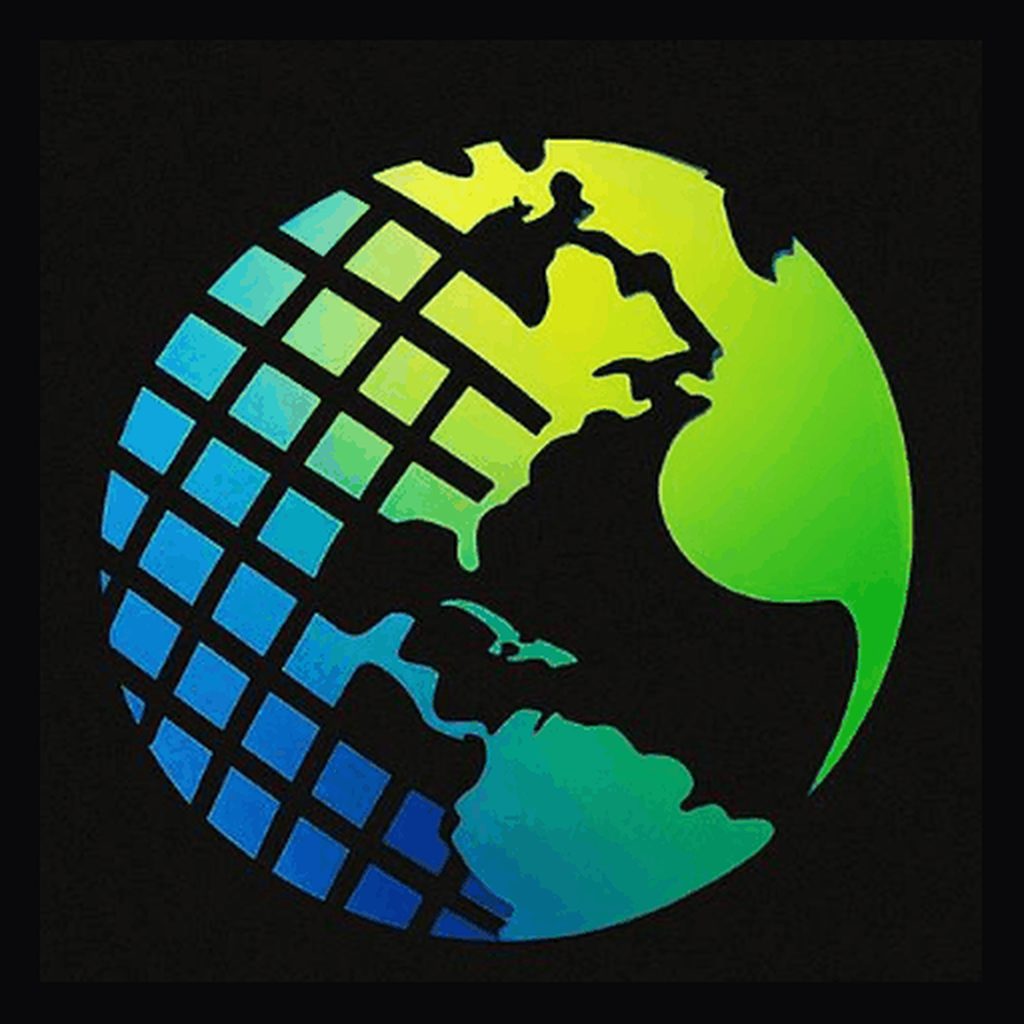
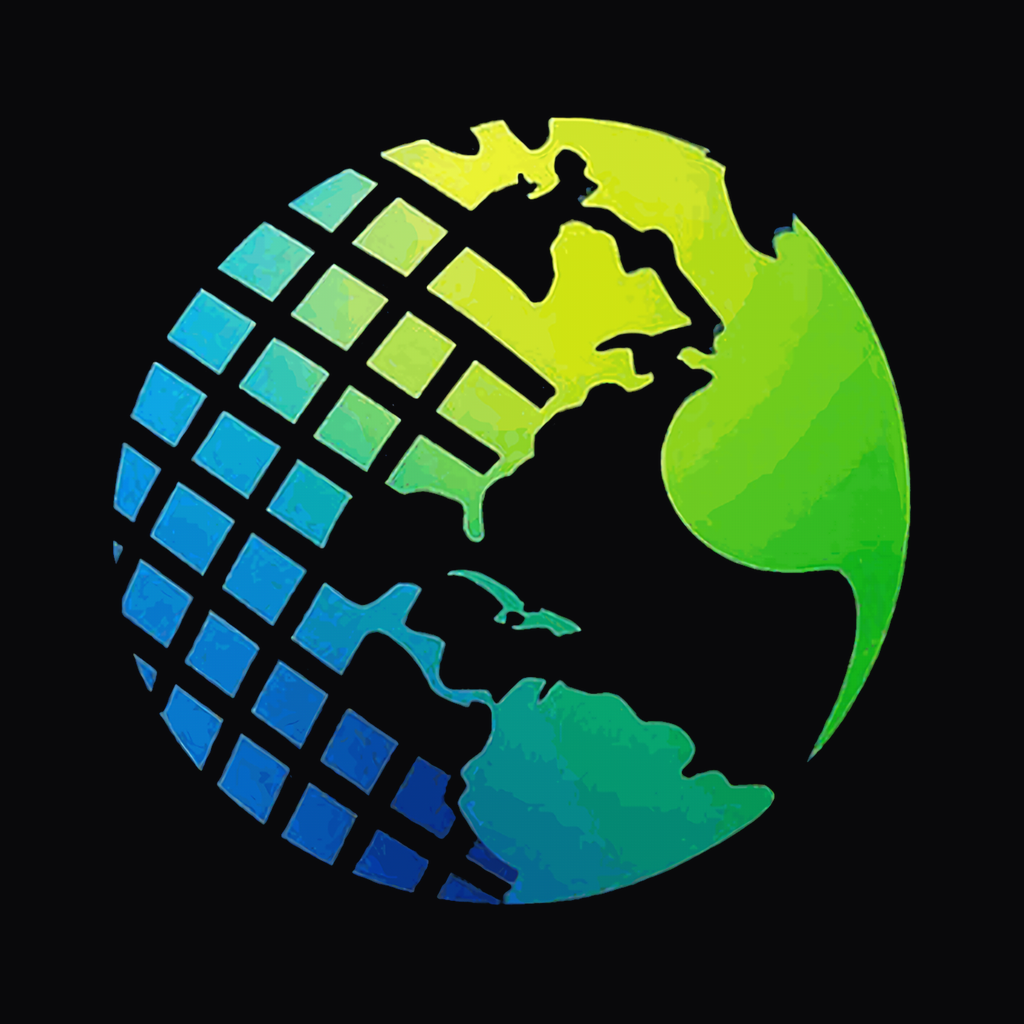
Приложение: автообновление с сайта (Capgo, свой хостинг), эффектное открытие с анимацией, чёткие иконки и логотип (увеличение нейросетью)
Claude-Session: https://claude.ai/code/session_01HueoxJaRpC6wrSjSJwY7Sb

Changed region(s): [[0.0938, 0.0938, 0.9062, 0.9375], [0.7188, 0.4062, 0.75, 0.4375]]

diff --git a/src/components/IntroSplash.tsx b/src/components/IntroSplash.tsx
@@ -1,0 +1,105 @@
+import React, { useEffect, useState } from 'react';
+import { createPortal } from 'react-dom';
+import { isNativeApp } from '../utils/platform';
+
+const TITLE = 'SlyNet Radio';
+
+function shouldShow(): boolean {
+  try {
+    const standalone = window.matchMedia?.('(display-mode: standalone)').matches || (navigator as any).standalone;
+    if (isNativeApp || standalone) {
+      // В приложении — при каждом «холодном» запуске
+      if (sessionStorage.getItem('slynet_intro_done')) return false;
+      sessionStorage.setItem('slynet_intro_done', '1');
+      return true;
+    }
+    // На сайте — только при самом первом посещении
+    if (localStorage.getItem('slynet_intro_seen')) return false;
+    localStorage.setItem('slynet_intro_seen', '1');
+    return true;
+  } catch {
+    return false;
+  }
+}
+
+/** Эффектное открытие: глобус влетает с вращением, расходятся радиоволны, появляется название */
+export const IntroSplash: React.FC = () => {
+  const [stage, setStage] = useState<'show' | 'leave' | 'gone'>(() => (shouldShow() ? 'show' : 'gone'));
+
+  useEffect(() => {
+    if (stage !== 'show') return;
+    const reduce = window.matchMedia?.('(prefers-reduced-motion: reduce)').matches;
+    const t1 = setTimeout(() => setStage('leave'), reduce ? 700 : 2500);
+    return () => clearTimeout(t1);
+  }, [stage]);
+
+  useEffect(() => {
+    if (stage !== 'leave') return;
+    const t = setTimeout(() => setStage('gone'), 550);
+    return () => clearTimeout(t);
+  }, [stage]);
+
+  if (stage === 'gone') return null;
+
+  // Через портал в body — чтобы поверх всего сайта, независимо от родительских блоков
+  return createPortal(
+    <div
+      onClick={() => setStage('leave')}
+      className={`slynet-intro fixed inset-0 z-[100] flex flex-col items-center justify-center overflow-hidden select-none ${stage === 'leave' ? 'is-leaving' : ''}`}
+      aria-hidden
+    >
+      <style>{`
+        .slynet-intro{background:radial-gradient(circle at 50% 45%,#06281f 0%,#05110f 38%,#09090b 75%);animation:si-bg 2.5s ease-out both}
+        .slynet-intro.is-leaving{animation:si-out .55s ease-in forwards}
+        @keyframes si-out{to{opacity:0;transform:scale(1.08);filter:blur(6px)}}
+        @keyframes si-bg{from{background-size:60% 60%}to{background-size:100% 100%}}
+        .si-stage{position:relative;width:min(56vw,260px);aspect-ratio:1}
+        .si-ring{position:absolute;inset:0;border-radius:9999px;border:2px solid rgba(52,211,153,.55);opacity:0;animation:si-wave 2.1s cubic-bezier(.2,.6,.3,1) infinite}
+        .si-ring:nth-child(2){animation-delay:.45s;border-color:rgba(34,211,238,.5)}
+        .si-ring:nth-child(3){animation-delay:.9s;border-color:rgba(163,230,53,.45)}
+        @keyframes si-wave{0%{transform:scale(.55);opacity:.9}100%{transform:scale(2.3);opacity:0}}
+        .si-glow{position:absolute;inset:-18%;border-radius:9999px;background:radial-gradient(circle,rgba(16,185,129,.55),rgba(6,182,212,.25) 45%,transparent 70%);filter:blur(18px);animation:si-pulse 1.6s ease-in-out infinite alternate}
+        @keyframes si-pulse{from{opacity:.55;transform:scale(.92)}to{opacity:1;transform:scale(1.06)}}
+        .si-globe{position:absolute;inset:0;width:100%;height:100%;object-fit:contain;filter:drop-shadow(0 0 22px rgba(16,185,129,.55));animation:si-in 1s cubic-bezier(.17,1.4,.4,1) both,si-spin 9s linear 1s infinite}
+        @keyframes si-in{from{opacity:0;transform:scale(.25) rotate(-220deg)}to{opacity:1;transform:scale(1) rotate(0)}}
+        @keyframes si-spin{to{transform:rotate(360deg)}}
+        .si-title{margin-top:min(9vw,44px);font-weight:800;font-size:clamp(30px,9vw,46px);letter-spacing:-.02em;color:#fff;display:flex}
+        .si-title span{display:inline-block;opacity:0;transform:translateY(18px);animation:si-letter .5s cubic-bezier(.2,.9,.3,1.3) forwards}
+        @keyframes si-letter{to{opacity:1;transform:none}}
+        .si-title .acc{background:linear-gradient(90deg,#22d3ee,#10b981,#a3e635);-webkit-background-clip:text;background-clip:text;color:transparent}
+        .si-sub{margin-top:8px;font-family:"JetBrains Mono",monospace;font-size:13px;letter-spacing:.18em;text-transform:uppercase;color:#6ee7b7;opacity:0;animation:si-fade .6s ease-out 1.35s forwards}
+        @keyframes si-fade{to{opacity:.9}}
+        .si-eq{display:flex;gap:5px;height:26px;align-items:flex-end;margin-top:22px;opacity:0;animation:si-fade .4s ease-out 1.5s forwards}
+        .si-eq i{width:5px;border-radius:3px;background:linear-gradient(#a3e635,#10b981);animation:si-bar .7s ease-in-out infinite alternate}
+        .si-eq i:nth-child(2){animation-delay:.15s}.si-eq i:nth-child(3){animation-delay:.3s}.si-eq i:nth-child(4){animation-delay:.1s}.si-eq i:nth-child(5){animation-delay:.25s}
+        @keyframes si-bar{from{height:5px}to{height:26px}}
+        @media (prefers-reduced-motion: reduce){.slynet-intro *{animation-duration:.01s!important;animation-iteration-count:1!important}}
+      `}</style>
+
+      <div className="si-stage">
+        <div className="si-glow" />
+        <span className="si-ring" />
+        <span className="si-ring" />
+        <span className="si-ring" />
+        <img src="./logo-globe.png" alt="" className="si-globe" />
+      </div>
+
+      <div className="si-title">
+        {TITLE.split('').map((ch, i) => (
+          <span key={i} className={i >= 7 ? 'acc' : ''} style={{ animationDelay: `${0.7 + i * 0.045}s` }}>
+            {ch === ' ' ? ' ' : ch}
+          </span>
+        ))}
+      </div>
+      <div className="si-sub">Радио со всего мира</div>
+      <div className="si-eq">
+        <i />
+        <i />
+        <i />
+        <i />
+        <i />
+      </div>
+    </div>,
+    document.body
+  );
+};

diff --git a/src/App.tsx b/src/App.tsx
@@ -13,6 +13,7 @@ import { ListFilters } from './components/ListFilters';
 import { ExclusiveSection } from './components/ExclusiveSection';
 import { AppsView } from './components/AppsView';
 import { UpdateBanner } from './components/UpdateBanner';
+import { IntroSplash } from './components/IntroSplash';
 import { useCustomStations } from './hooks/useCustomStations';
 import { fetchStations, fetchGenreStations, fetchCatalogStats, fetchStationsByUuids } from './services/radioApi';
 import { MobileHome } from './components/MobileHome';
@@ -547,6 +548,7 @@ function RadioApp() {
         )}
 
         {/* Dynamic Page Views */}
+        <IntroSplash />
         <UpdateBanner />
 
         <main className="flex-1 px-4 sm:px-6 py-6 max-w-7xl w-full mx-auto">
